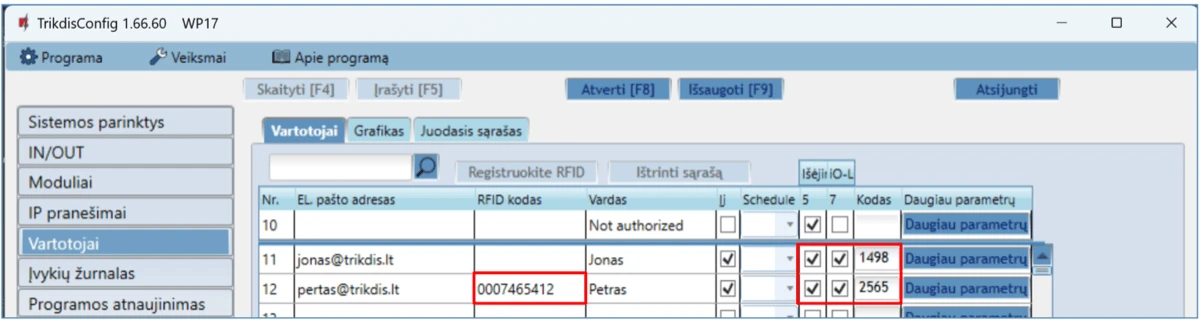
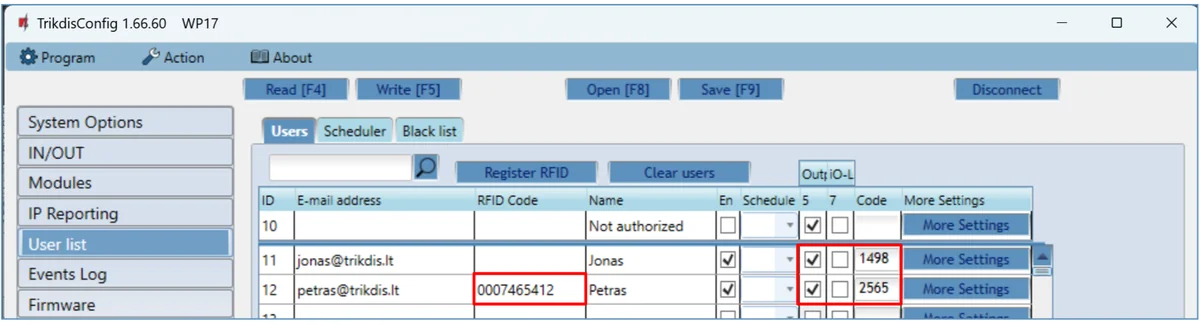
GATOR and GATOR WiFi fixes from Igoris (2026-09-30)
- GATOR WiFi: three TrikdisConfig screenshots (iO-LORA module, IN/OUT,
  user list) replaced with Igoris's English versions; alt text rewritten
  without the card number, emails or names shown.
- GATOR WiFi: the device ID is the MAC, not the IMEI ('MAC/Unique ID' in the
  status-bar table, 'Unique ID (MAC)' in the Protegus2 step).
- GATOR and GATOR WiFi widget steps renumbered 5-8 to match the screenshot
  callouts (they restarted at 2 after step 4).

diff --git a/docs/en/gate-controllers/gator-wifi/index.md b/docs/en/gate-controllers/gator-wifi/index.md
@@ -186,15 +186,15 @@ Connect the RF-LORA transceiver to the GATOR WiFi controller. After that, you ca
 
 Launch TrikdisConfig. Connect GATOR WiFi via USB Mini-B cable to the computer or remotely. Press the **Read [F4]** button and the TrikdisConfig program will display the current controller settings. If requested, enter the Administrator or Installer 6-digit code in the pop-up window. Select "**iO-LORA controller**" from the "**Modules**" list. In the "**Serial No.**" field, enter the serial number of the device.
 
-<img alt="TrikdisConfig WP17, Moduliai window: row 1 has Modulis set to iO-LORA valdiklis, with the Serijos Nr. field highlighted." src="./image10.webp" style="width:7.086614173228346in;height:1.4173228346456692in" />
+<img alt="TrikdisConfig WP17, Modules window: row 1 has Module set to iO-LORA controller, with the Module and Serial No. fields highlighted." src="./image10.webp" style="width:7.086614173228346in;height:1.4173228346456692in" />
 
 In the "**IN/OUT**" list, the "**EXIT button**" must be specified for the "**6 IN**" input. When the "**Exit**" button is pressed, the iO-LORA "**7 OUT**" output is activated for the set pulse duration.
 
-<img alt="TrikdisConfig WP17, IN/OUT window: 6 IN has Paskirtis set to Išėjimo mygtukas, Pavadinimas IN6 and Tipas NO. The 7 OUT row shows Išėjimas, OUT7, Impuls and a 3-second pulse; the Wiegand skaitytuvo režimas checkbox is checked." src="./image11.webp" style="width:7.086614173228346in;height:2.6929133858267718in" />
+<img alt="TrikdisConfig WP17, IN/OUT window: 6 IN is highlighted with Function Exit button and Name IN6, type NO. 5 OUT and 7 OUT are Outputs with a 3-second Pulse, and Wiegand reader mode is checked." src="./image11.webp" style="width:7.086614173228346in;height:2.6929133858267718in" />
 
 In the "**Users**" list, specify the number of the RFID card, the user's name, enable the permission to control the PGM output, specify the PGM output (which will be controlled by the user), the code. After completing the settings, click **Write [F5]**. Wait until the process of updating the controller settings is finished. Click "**Disconnect**" and disconnect the USB cable.
 
-<img alt="TrikdisConfig WP17, Vartotojai window: the RFID kodas field is highlighted in a user row. Two user rows have the 5 and 7 output permission checkboxes checked, with entries in the Kodas column." src="./image12.webp" style="width:7.086614173228346in;height:1.9015748031496063in" />
+<img alt="TrikdisConfig WP17, User list window, Users tab: the RFID Code field is highlighted in a user row. Two users have output 5 checked, and their Code entries are highlighted." src="./image12.webp" style="width:7.086614173228346in;height:1.9015748031496063in" />
 
 Activate PGM output with RFID card/code. Press the "**Exit**" button (the PGM output must activate for the set pulse duration).
 
@@ -248,7 +248,7 @@ Choose “**Add new system”**.
 
 <img alt="Protegus2 app menu with Add new system highlighted." src="./image22.webp" style="width:2.7559055118110236in;height:2.6141732283464565in" />
 
-Enter the controller “Unique ID (IMEI)” number found on the product or on the packaging sticker. Press “**Next**”.
+Enter the controller “Unique ID (MAC)” number found on the product or on the packaging sticker. Press “**Next**”.
 
 <img alt="Protegus2 Scan QR code screen. The Unique ID/IMEI field, QR code on the product label and Next button are highlighted as ways to identify and add the device." src="./image23.webp" style="width:2.7559055118110236in;height:4.9015748031496065in" />
 
@@ -318,15 +318,15 @@ Find Protegus2 in the settings bar.
 
 4. Select “**WP17 Output5**” controller output.
 
-2.  Click on “**ADD WIDGET**”.
+5.  Click on “**ADD WIDGET**”.
 
 <img alt="Protegus widget screen: callout 4 marks the WP17 Output5 controller output; callout 5 marks the ADD WIDGET button." src="./image38.webp" style="width:2.7559055118110236in;height:2.145669291338583in" />
 
-3. An icon will appear on the phone‘s screen.
+6. An icon will appear on the phone‘s screen.
 
 <img alt="Callout 6 marks the Output5 power-button widget in the Protegus 2 widget picker. Below it, Switch Protegus 2 is shown as a 1 x 1 widget." src="./image39.webp" style="width:2.7559055118110236in;height:3.1141732283464565in" />
 
-4. Return to the home screen. Press the icon.
+7. Return to the home screen. Press the icon.
 
 <img alt="Phone home screen with callout 7 around the gray Output5 power-button widget, beside the Protegus 2 app icon." src="./image40.webp" style="width:2.7559055118110236in;height:1.6456692913385826in" />
 
@@ -334,7 +334,7 @@ A circle that shows when the PGM is turned on will appear on the screen.
 
 <img alt="Phone home screen with the gray Output5 widget beside the Protegus 2 app icon. A large white circle with a gray power button and a small refresh symbol appears below." src="./image41.webp" style="width:2.7559055118110236in;height:2.8818897637795278in" />
 
-5. When the controller is connected to the automatic gate with gate state indication, the icon will show the state of the open/closed gates.
+8. When the controller is connected to the automatic gate with gate state indication, the icon will show the state of the open/closed gates.
 
 <img alt="Phone home screen with callout 8 around the Output5 widget, whose power button is green." src="./image42.webp" style="width:2.7559055118110236in;height:1.5393700787401574in" />
 
@@ -372,7 +372,7 @@ After connecting the GATOR WiFi to the TrikdisConfig software, the software will
 
 | Name           | Description                                               |
 |----------------|-----------------------------------------------------------|
-| IMEI/Unique ID | The device’s MAC number                                   |
+| MAC/Unique ID | The device’s MAC number                                   |
 | State          | Operational state                                         |
 | Device         | Device type (must show WP17_xxxx)                   |
 | SN             | Device’s serial number                                    |

diff --git a/docs/en/gate-controllers/gator/index.md b/docs/en/gate-controllers/gator/index.md
@@ -394,15 +394,15 @@ Find Protegus2 in the settings bar.
 
 4. Select “**Gator Output5**” controller output.
 
-2.  Click on “**ADD WIDGET**”.
+5.  Click on “**ADD WIDGET**”.
 
 <img alt="Protegus widget output selection screen. Callout 4 marks the selected Gator Output5 option; callout 5 highlights ADD WIDGET." src="./image36.webp" style="width:2.7559055118110236in;height:2.2755905511811023in" />
 
-3. An icon will appear on the phone‘s screen.
+6. An icon will appear on the phone‘s screen.
 
 <img alt="Callout 6 marks the Output5 power-button widget in the Protegus 2 widget picker. Below it, Switch Protegus 2 is shown as a 1 x 1 widget." src="./image37.webp" style="width:2.7559055118110236in;height:3.1141732283464565in" />
 
-4. Return to the home screen. Press the icon.
+7. Return to the home screen. Press the icon.
 
 <img alt="Phone home screen with callout 7 around the gray Output5 power-button widget, beside the Protegus 2 app icon." src="./image38.webp" style="width:2.7559055118110236in;height:1.6456692913385826in" />
 
@@ -410,7 +410,7 @@ A circle that shows when the PGM is turned on will appear on the screen.
 
 <img alt="Phone home screen with the gray Output5 widget beside the Protegus 2 app icon. A large white circle with a gray power button and a small refresh symbol appears below." src="./image39.webp" style="width:2.7559055118110236in;height:2.8818897637795278in" />
 
-5. When the controller is connected to the automatic gate with gate state indication, the icon will show the state of the open/closed gates.
+8. When the controller is connected to the automatic gate with gate state indication, the icon will show the state of the open/closed gates.
 
 <img alt="Phone home screen with callout 8 around the Output5 widget, whose power button is green." src="./image40.webp" style="width:2.7559055118110236in;height:1.5393700787401574in" />
 
